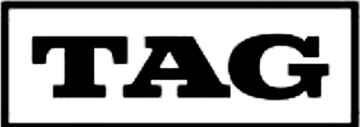
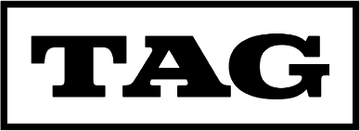
Re-cut the TAG mark from the official lockup
The boxed TAG mark was cut from a search-result thumbnail; a clean copy
of TAG's lockup (white on black with the tagline) was supplied, so the
black and white PNGs are re-cut from that — full box edges, no
screenshot artefacts.

Claude-Session: https://claude.ai/code/session_01NSd2rWAU82e7UEh9FwNTyv

diff --git a/public/images/grading/README.md b/public/images/grading/README.md
@@ -12,7 +12,7 @@ wordmark in the brand colour rather than an approximation of the mark.
 | `cgc.png` | CGC Cards (Certified Guaranty Company) | In place — the red scales + CGC® mark, cut from the logo image supplied on 2026-11-04. Replace with the vector from https://www.cgccards.com when available |
 | `ace.svg` | ACE Grading | **Missing** — the gold shield "A" at https://www.acegrading.com; the copies supplied so far were too small to use. Wordmark fallback until then |
 | `sgc.png` / `sgc-white.png` | SGC (Sportscard Guaranty Corporation) | In place — the hexagon ball mark + SGC wordmark, black and white versions cut from the artwork supplied on 2026-11-04. Replace with SGC's own file (gosgc.com publishes a white logo) when available |
-| `tag.png` / `tag-white.png` | TAG Grading | In place — the boxed serif TAG mark, black and white versions cut from the artwork supplied on 2026-11-04. Replace with TAG's own file when available |
+| `tag.png` / `tag-white.png` | TAG Grading | In place — the boxed serif TAG mark, black and white versions cut from the official lockup (white on black, with tagline) supplied on 2026-11-04. Replace with TAG's own file when available |
 
 When a file lands or is replaced: point `logo` (and `logoDark` for a light-on-dark version)
 at it in `data/gradingCompanies.js`, sample the mark's primary fill into `brand.primary`,
